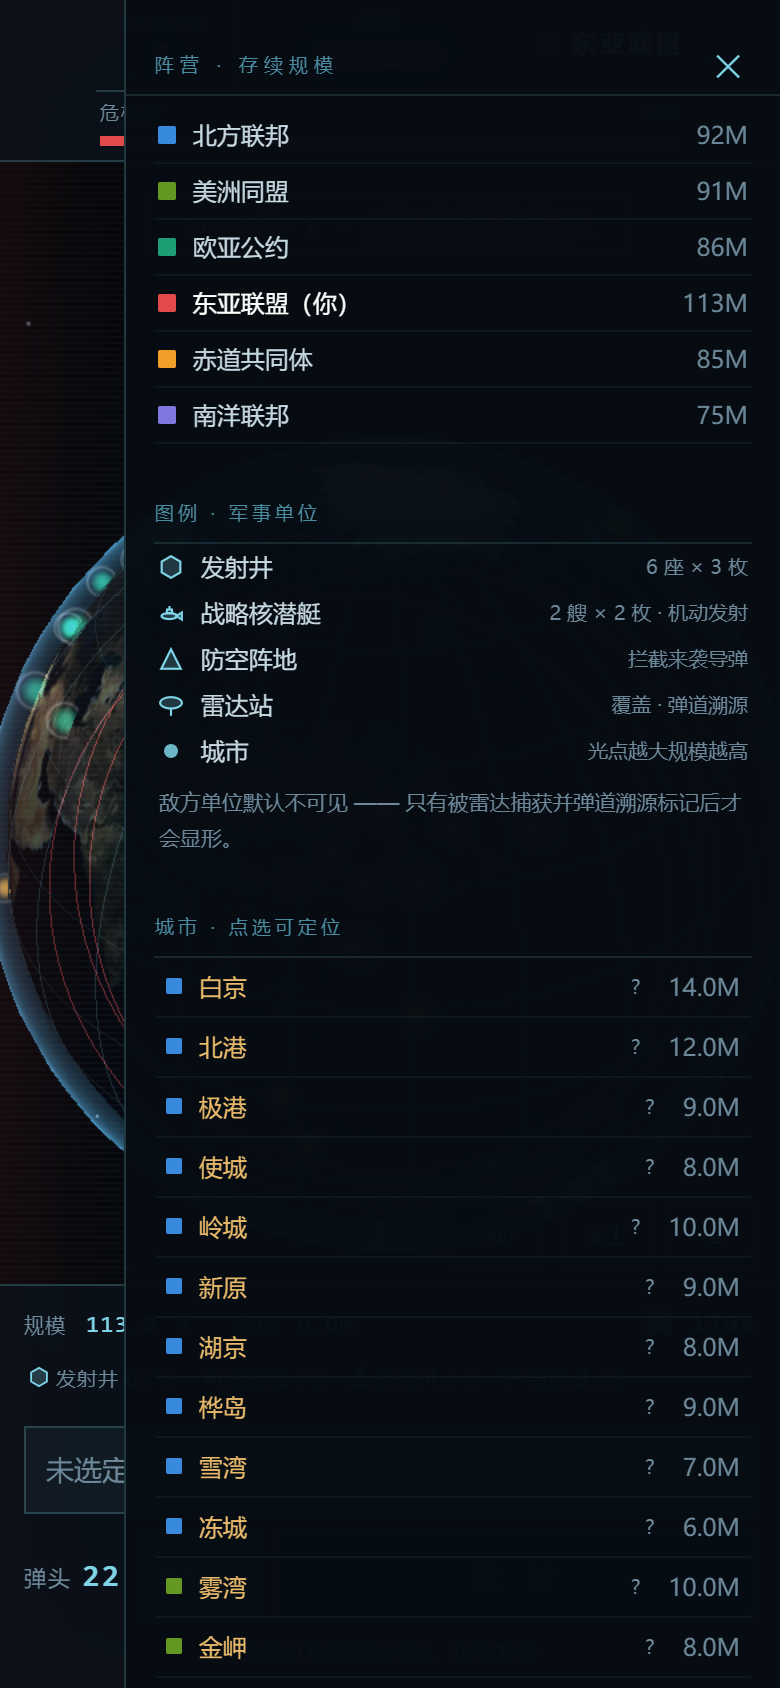
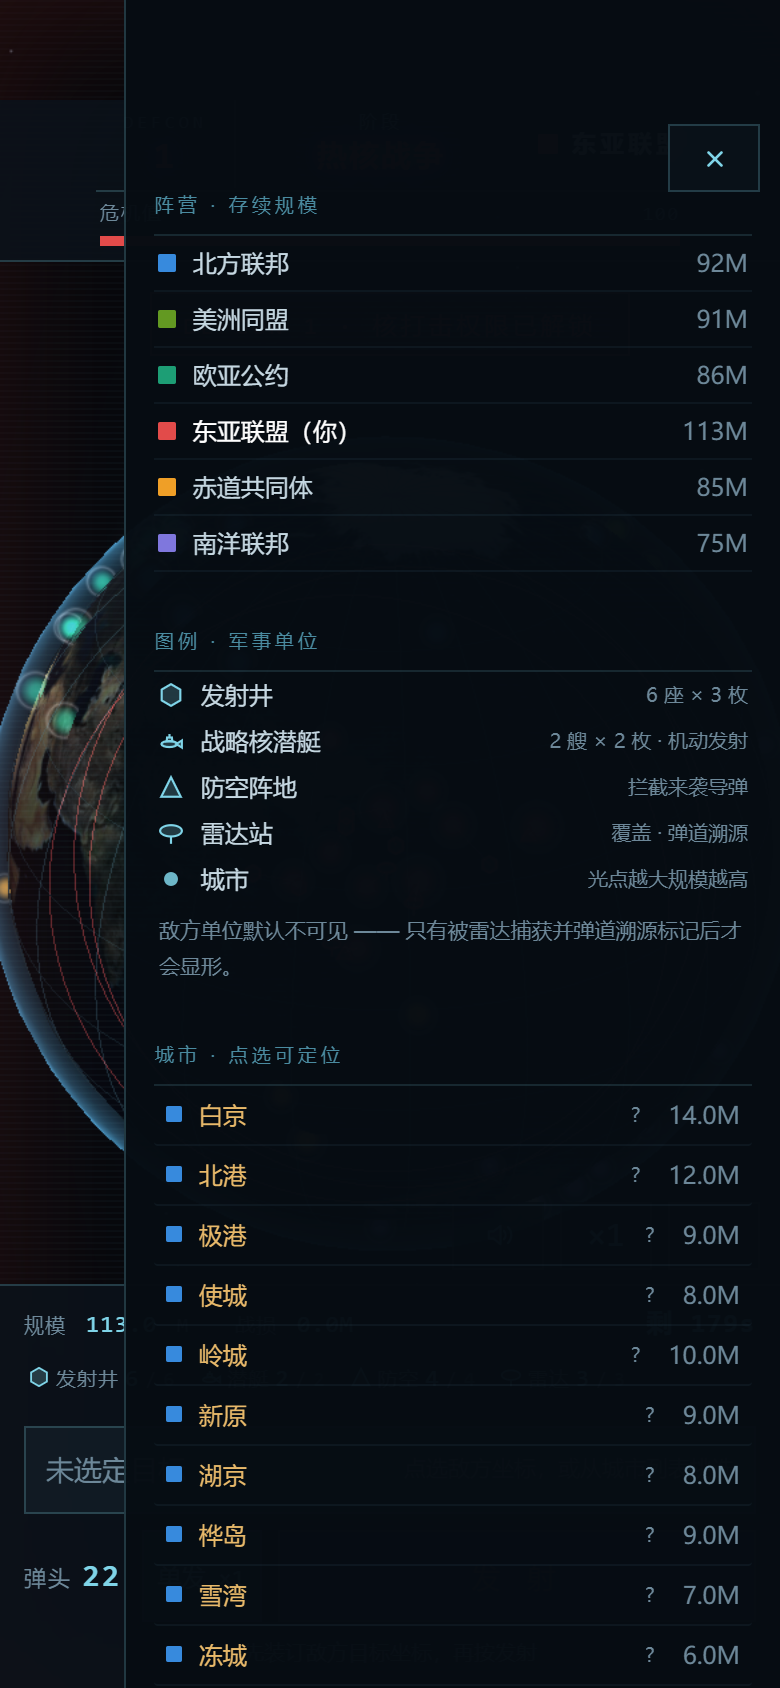
fix(ui): 抽屉标题改随内容滚动并统一顶部留白

diff --git a/vibegame/defcon/index.html b/vibegame/defcon/index.html
@@ -14,6 +14,11 @@
     --mono:ui-monospace,SFMono-Regular,Menlo,Consolas,"Liberation Mono",monospace;
     --sans:system-ui,-apple-system,"Segoe UI","PingFang SC","Microsoft YaHei",sans-serif;
     --safe-t:env(safe-area-inset-top,0px); --safe-b:env(safe-area-inset-bottom,0px);
+    /* 顶部强制留白：小红书 iframe 里 env(safe-area-inset-top) 恒为 0，
+       顶栏会直接顶在屏幕最上沿（被宿主 UI 压住/显得憋）。
+       改成一条显式的常量留白，顶栏整体下移 —— 上方露出星球，不再是一整块面板。
+       改这一个值就能调，#alert 与抽屉头都跟着它走。 */
+    --top-gap:50px;
   }
   *{box-sizing:border-box;margin:0;padding:0}
   html,body{height:100%;overflow:hidden;background:#02040a;color:var(--text);
@@ -40,8 +45,10 @@
      两行结构：第一行 DEFCON 格 + 阶段格左右分布；危机值条换行独占第二行 ——
      390px 手机上左右各 80px 留白后内容区只剩 230px，DEFCON(70) + 阶段(86) 占掉大半，
      危机值条被挤到 ~70px 宽、数字与条形图都挤成一团，独占一行才有完整的进度条可读性。 */
-  #top{top:0;left:0;right:0;display:flex;flex-wrap:wrap;align-items:stretch;gap:1px;
-    padding:var(--safe-t) 48px 0;
+  /* top 用 --top-gap + 安全区之和，padding 不再承担避让 —— 背景与内容一起下移，
+     上方 50px 是真的空出来（露出星球），不是栏内留白。 */
+  #top{top:calc(var(--top-gap) + var(--safe-t));left:0;right:0;display:flex;flex-wrap:wrap;align-items:stretch;gap:1px;
+    padding:0 48px 0;
     border-bottom:1px solid var(--line);background:var(--panel)}
   #defcon{padding:5px 10px;display:flex;flex-direction:column;align-items:center;justify-content:center;
     min-width:70px;flex:none;order:0;border-right:1px solid var(--line)}
@@ -126,12 +133,15 @@
    * 底色换成面板色加 backdrop 模糊：直接浮在球面上，原来的半透明淡青底不够读。 */
   #hudBtns{position:absolute;right:10px;bottom:100%;margin-bottom:8px;
     display:flex;gap:8px;z-index:2}
-  #hudBtns button{width:46px;height:34px;background:rgba(10,18,26,.78);
+  /* 底部指令条三键 + 抽屉关闭键共用一套皮 —— 写在同一条规则里，
+     不是各写一份再靠人工保持同步：尺寸/描边/底色/按下态从此不可能跑偏。
+     #drawerClose 只额外带定位（见抽屉段），外观一律继承这里。 */
+  #hudBtns button,#drawerClose{width:46px;height:34px;background:rgba(10,18,26,.78);
     border:1px solid var(--line);color:var(--cyan);
     font-family:var(--mono);font-size:17px;line-height:1;cursor:pointer;
     display:flex;align-items:center;justify-content:center;padding:0;
     backdrop-filter:blur(6px);-webkit-backdrop-filter:blur(6px)}
-  #hudBtns button:active{background:rgba(127,212,232,.25)}
+  #hudBtns button:active,#drawerClose:active{background:rgba(127,212,232,.25)}
   /* 音效：开态两道声波弧，静音态一个叉（✕）—— 叉比斜杠更像"关闭"，识别度高。 */
   #sndBtn{color:var(--cyan-dim)}
   #sndBtn .wave{display:block}
@@ -211,9 +221,14 @@
   @keyframes deny{0%,100%{border-top-color:var(--line)}45%{border-top-color:var(--red)}}
 
   /* ── 抽屉：阵营 / 图例 / 城市 ── */
+  /* padding-top 是关闭按钮的避让区（按钮本身绝对定位，不占流）：
+     原来这里放的是「阵营 · 存续规模」标题，固定在滚动区之外 —— 内容一滚，
+     底下的图例和城市列表已经滚过去了，标题还钉在那儿，对不上。
+     现在标题移进 dbody 与其它分组标题同级（见 .dbody 首行），这里只留按钮的空间。 */
   #drawer{position:absolute;top:0;right:0;bottom:0;width:84%;max-width:340px;z-index:30;
     background:rgba(6,12,18,.98);border-left:1px solid var(--line);
     transform:translateX(100%);transition:transform .24s ease;
+    padding-top:calc(26px + var(--top-gap) + var(--safe-t));
     display:flex;flex-direction:column;overflow:hidden}
   #drawer.open{transform:translateX(0)}
   /* 顶部安全区（§11.14）：抽屉在小红书等平台是挂在 iframe 里的，
@@ -224,12 +239,15 @@
   #drawer .dhead{display:flex;align-items:center;padding:calc(14px + var(--safe-t)) 12px 9px 14px;
     font-size:9.5px;color:var(--cyan-dim);letter-spacing:3px;
     border-bottom:1px solid rgba(127,212,232,.14)}
-  #drawer > .dhead{padding-top:max(26px, calc(14px + var(--safe-t)))}
-  #drawerClose{position:absolute;top:max(14px, calc(8px + var(--safe-t)));right:8px;width:36px;height:36px;
-    background:transparent;border:none;color:var(--cyan);font-size:16px;cursor:pointer}
+  /* 关闭按钮只带定位 —— 外观（46×34 / 描边 / 底色 / 毛玻璃 / 按下态）全部继承上面
+     `#hudBtns button,#drawerClose` 那条共用规则，与静音、倍速、菜单三键同款。
+     z-index:2 是必需的：标题移进 dbody 后内容会滚到它底下，没有底衬的行文字会穿过图标。 */
+  #drawerClose{position:absolute;top:calc(12px + var(--top-gap) + var(--safe-t));right:10px;z-index:2}
   #drawer .dbody{flex:1;overflow-y:auto;-webkit-overflow-scrolling:touch;padding:6px 14px 24px}
-  /* 分组标题（图例 / 城市）：缩进后另起一段，与 dhead 形成两级层次 */
+  /* 分组标题（阵营 / 图例 / 城市）：缩进后另起一段，与 dhead 形成两级层次 */
   #drawer .dbody .dhead{padding-left:0;margin-top:14px;letter-spacing:2px}
+  /* 第一个分组标题不再加 14px 上边距 —— 它上面已经是抽屉的按钮避让区了 */
+  #drawer .dbody > .dhead:first-child{margin-top:0}
   .frow{display:flex;align-items:center;gap:8px;padding:6px 2px;font-size:12px;
     border-bottom:1px solid rgba(127,212,232,.06)}
   .frow .sw{width:9px;height:9px;flex:none;border-radius:1px}
@@ -315,7 +333,8 @@
 
   /* ── DEFCON 1 提醒：跌到 1 是一次性事件，必须有明确的"核打击权限已解锁"告知 ──
      放在地球上方偏上，3 秒自动淡出；只在跨越到 1 的那一刻弹一次。 */
-  #alert{position:absolute;left:0;right:0;top:calc(96px + var(--safe-t));z-index:28;
+  /* 紧跟顶栏下沿（顶栏高 81px + 15px 间距），顶栏下移多少它就跟多少 */
+  #alert{position:absolute;left:0;right:0;top:calc(96px + var(--top-gap) + var(--safe-t));z-index:28;
     display:flex;justify-content:center;pointer-events:none;opacity:0}
   #alert .box{background:rgba(226,75,74,.14);border:1px solid rgba(226,75,74,.55);
     padding:7px 16px;font-family:var(--mono);font-size:12px;letter-spacing:2px;
@@ -439,9 +458,9 @@
 </div>
 
 <div id="drawer" data-page-node-id="Pzql6NdPXBo6JLsHnFtN0A">
-  <button type="button" id="drawerClose" aria-label="关闭" data-page-node-id="t5Oj6G2Zu1jxLrRj1QVMkJ">✕</button>
-  <div class="dhead" data-page-node-id="YpDtklGUS0NC7vPrbMj67g">阵营 · 存续规模</div>
+  <button type="button" id="drawerClose" aria-label="关闭" data-page-node-id="t5Oj6G2Zu1jxLrRj1QVMkJ"><svg viewBox="0 0 14 14" width="15" height="15" aria-hidden="true" data-page-node-id="drwrsClsSvg"><line x1="4" y1="4" x2="10" y2="10" stroke="currentColor" stroke-width="1.2" stroke-linecap="round" data-page-node-id="drwrsClsL1"></line><line x1="10" y1="4" x2="4" y2="10" stroke="currentColor" stroke-width="1.2" stroke-linecap="round" data-page-node-id="drwrsClsL2"></line></svg></button>
   <div class="dbody" data-page-node-id="l6N1RXA4m4YjJNQUtNl9FD">
+    <div class="dhead" data-page-node-id="YpDtklGUS0NC7vPrbMj67g">阵营 · 存续规模</div>
     <div id="fList" data-page-node-id="FGPKF5Oj3nktRqeuMe2FND"></div>
     <div class="dhead" style="padding-left:0" data-page-node-id="2kfTJqdCbEehQIWKUePuvc">图例 · 军事单位</div>
     <div id="legend" data-page-node-id="oDugszKjdWrkF1Vl8rrOrb">
